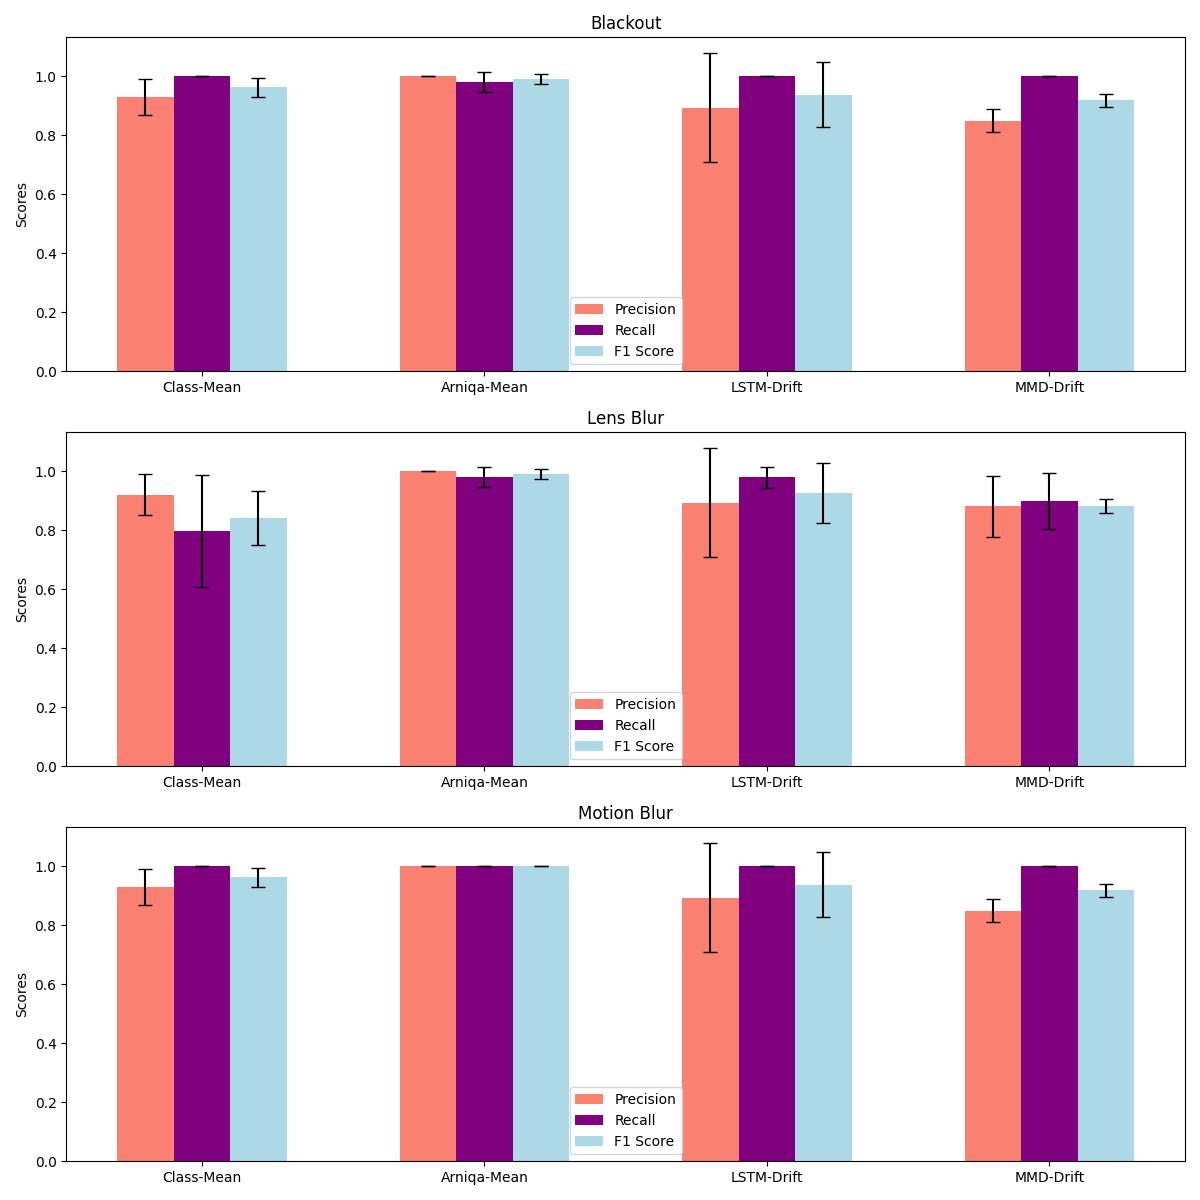
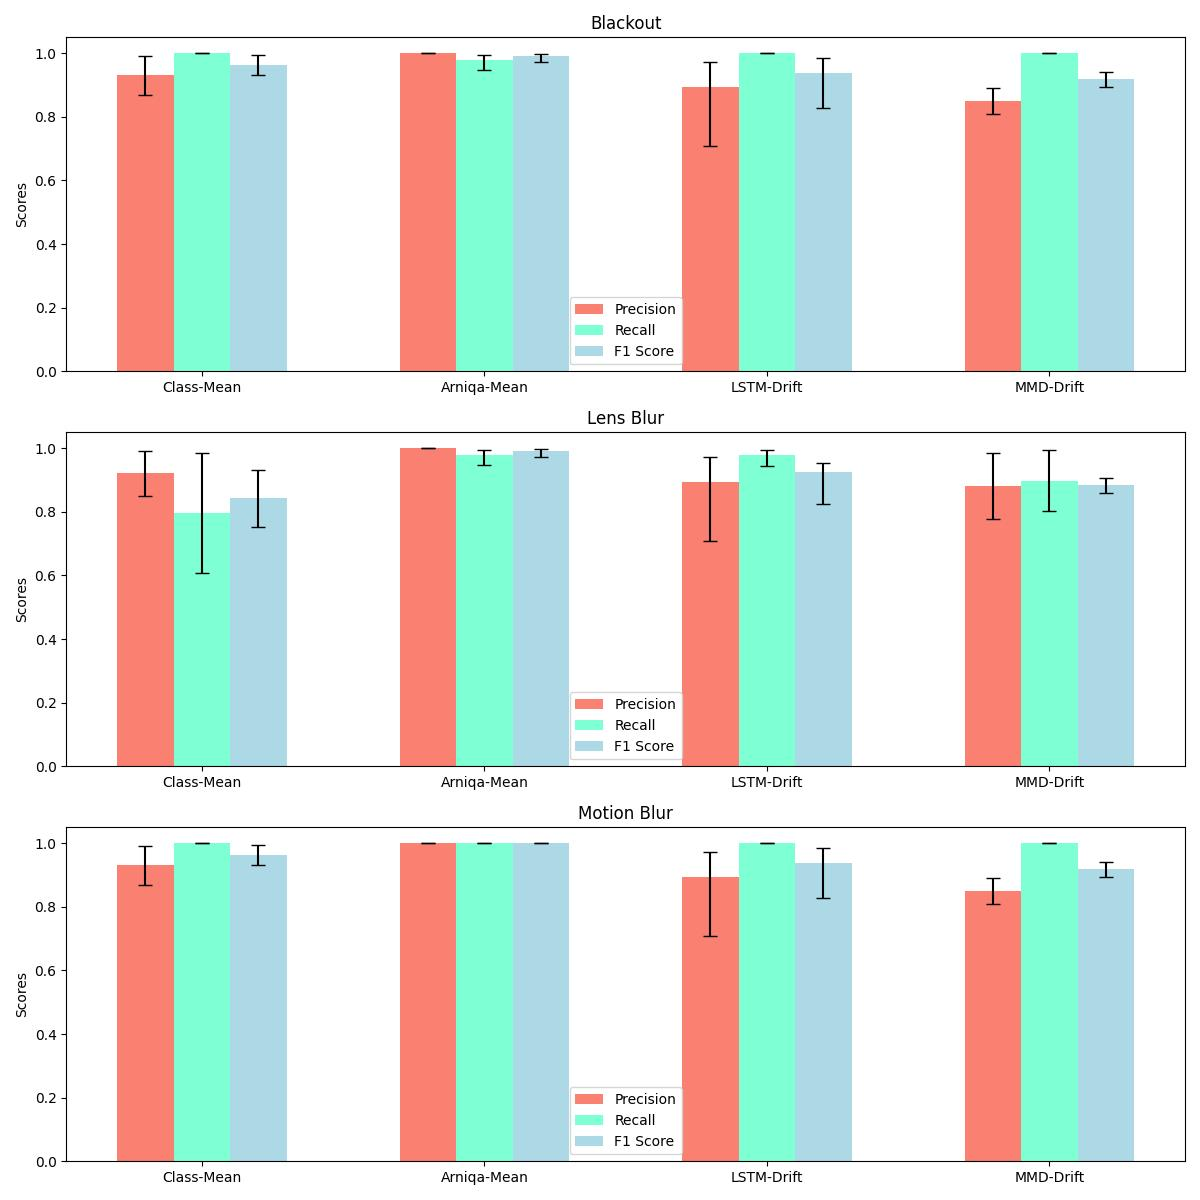
corrections in factory bar plot

diff --git a/tab_barplots_stable.py b/tab_barplots_stable.py
@@ -3,6 +3,7 @@ import numpy as np
 
 issues = ['Blackout', 'Lens Blur', 'Motion Blur']
 methods = ['Class-Mean', 'Arniqa-Mean', 'LSTM-Drift', 'MMD-Drift']
+colors = ['salmon', 'aquamarine', 'lightblue']
 
 precision = {
     'Blackout': [0.93, 1.0, 0.893, 0.85],
@@ -40,14 +41,38 @@ std_dev_f1 = {
 x = np.arange(len(methods))  # the label locations
 width = 0.2  # the width of the bars
 
-colors = ['salmon', 'purple', 'lightblue']
+precision_uplim = { i:[0., 0., 0., 0.] for i in ['Blackout', 'Lens Blur', 'Motion Blur']}
+for dist in ['Blackout', 'Lens Blur', 'Motion Blur']:
+    for i in range(4):
+        if precision[dist][i]+std_dev_precision[dist][i]>1:
+            precision_uplim[dist][i] = precision[dist][i]+std_dev_precision[dist][i]-1
+        else:
+            precision_uplim[dist][i] = std_dev_precision[dist][i]
+
+recall_uplim = { i:[0., 0., 0., 0.] for i in ['Blackout', 'Lens Blur', 'Motion Blur']}
+for dist in ['Blackout', 'Lens Blur', 'Motion Blur']:
+    for i in range(4):
+        if recall[dist][i]+std_dev_recall[dist][i]>1:
+            recall_uplim[dist][i] = recall[dist][i]+std_dev_recall[dist][i]-1
+        else:
+            recall_uplim[dist][i] = std_dev_recall[dist][i]
+
+f1_uplim = { i:[0., 0., 0., 0.] for i in ['Blackout', 'Lens Blur', 'Motion Blur']}
+for dist in ['Blackout', 'Lens Blur', 'Motion Blur']:
+    for i in range(4):
+        if f1_score[dist][i]+std_dev_f1[dist][i]>1:
+            f1_uplim[dist][i] = f1_score[dist][i]+std_dev_f1[dist][i]-1
+        else:
+            f1_uplim[dist][i] = std_dev_f1[dist][i]
+
+
 # Plot with standard deviations
 fig, ax = plt.subplots(3, 1, figsize=(12, 12))
 
 for i, issue in enumerate(issues):
-    rects1 = ax[i].bar(x - width, precision[issue], width, yerr=std_dev_precision[issue], capsize=5, label='Precision', color=colors[0])
-    rects2 = ax[i].bar(x, recall[issue], width, yerr=std_dev_recall[issue], capsize=5, label='Recall', color=colors[1])
-    rects3 = ax[i].bar(x + width, f1_score[issue], width, yerr=std_dev_f1[issue], capsize=5, label='F1 Score', color=colors[2])
+    rects1 = ax[i].bar(x - width, precision[issue], width, yerr=(std_dev_precision[issue],precision_uplim[issue]), capsize=5, label='Precision', color=colors[0])
+    rects2 = ax[i].bar(x, recall[issue], width, yerr=(std_dev_recall[issue], recall_uplim[issue]), capsize=5, label='Recall', color=colors[1])
+    rects3 = ax[i].bar(x + width, f1_score[issue], width, yerr=(std_dev_f1[issue],f1_uplim[issue]), capsize=5, label='F1 Score', color=colors[2])
     
     ax[i].set_ylabel('Scores')
     ax[i].set_title(issue)
@@ -95,7 +120,6 @@ std_dev_f1 = {
 x = np.arange(len(methods))  # the label locations
 width = 0.2  # the width of the bars
 
-colors = ['salmon', 'purple', 'lightblue']
 # Plot with standard deviations
 fig, ax = plt.subplots(3, 1, figsize=(12, 12))
 
@@ -149,7 +173,7 @@ std_dev_f1 = {
 x = np.arange(len(methods))  # the label locations
 width = 0.2  # the width of the bars
 
-colors = ['salmon', 'purple', 'lightblue']
+
 # Plot with standard deviations
 fig, ax = plt.subplots(3, 1, figsize=(12, 12))
 
